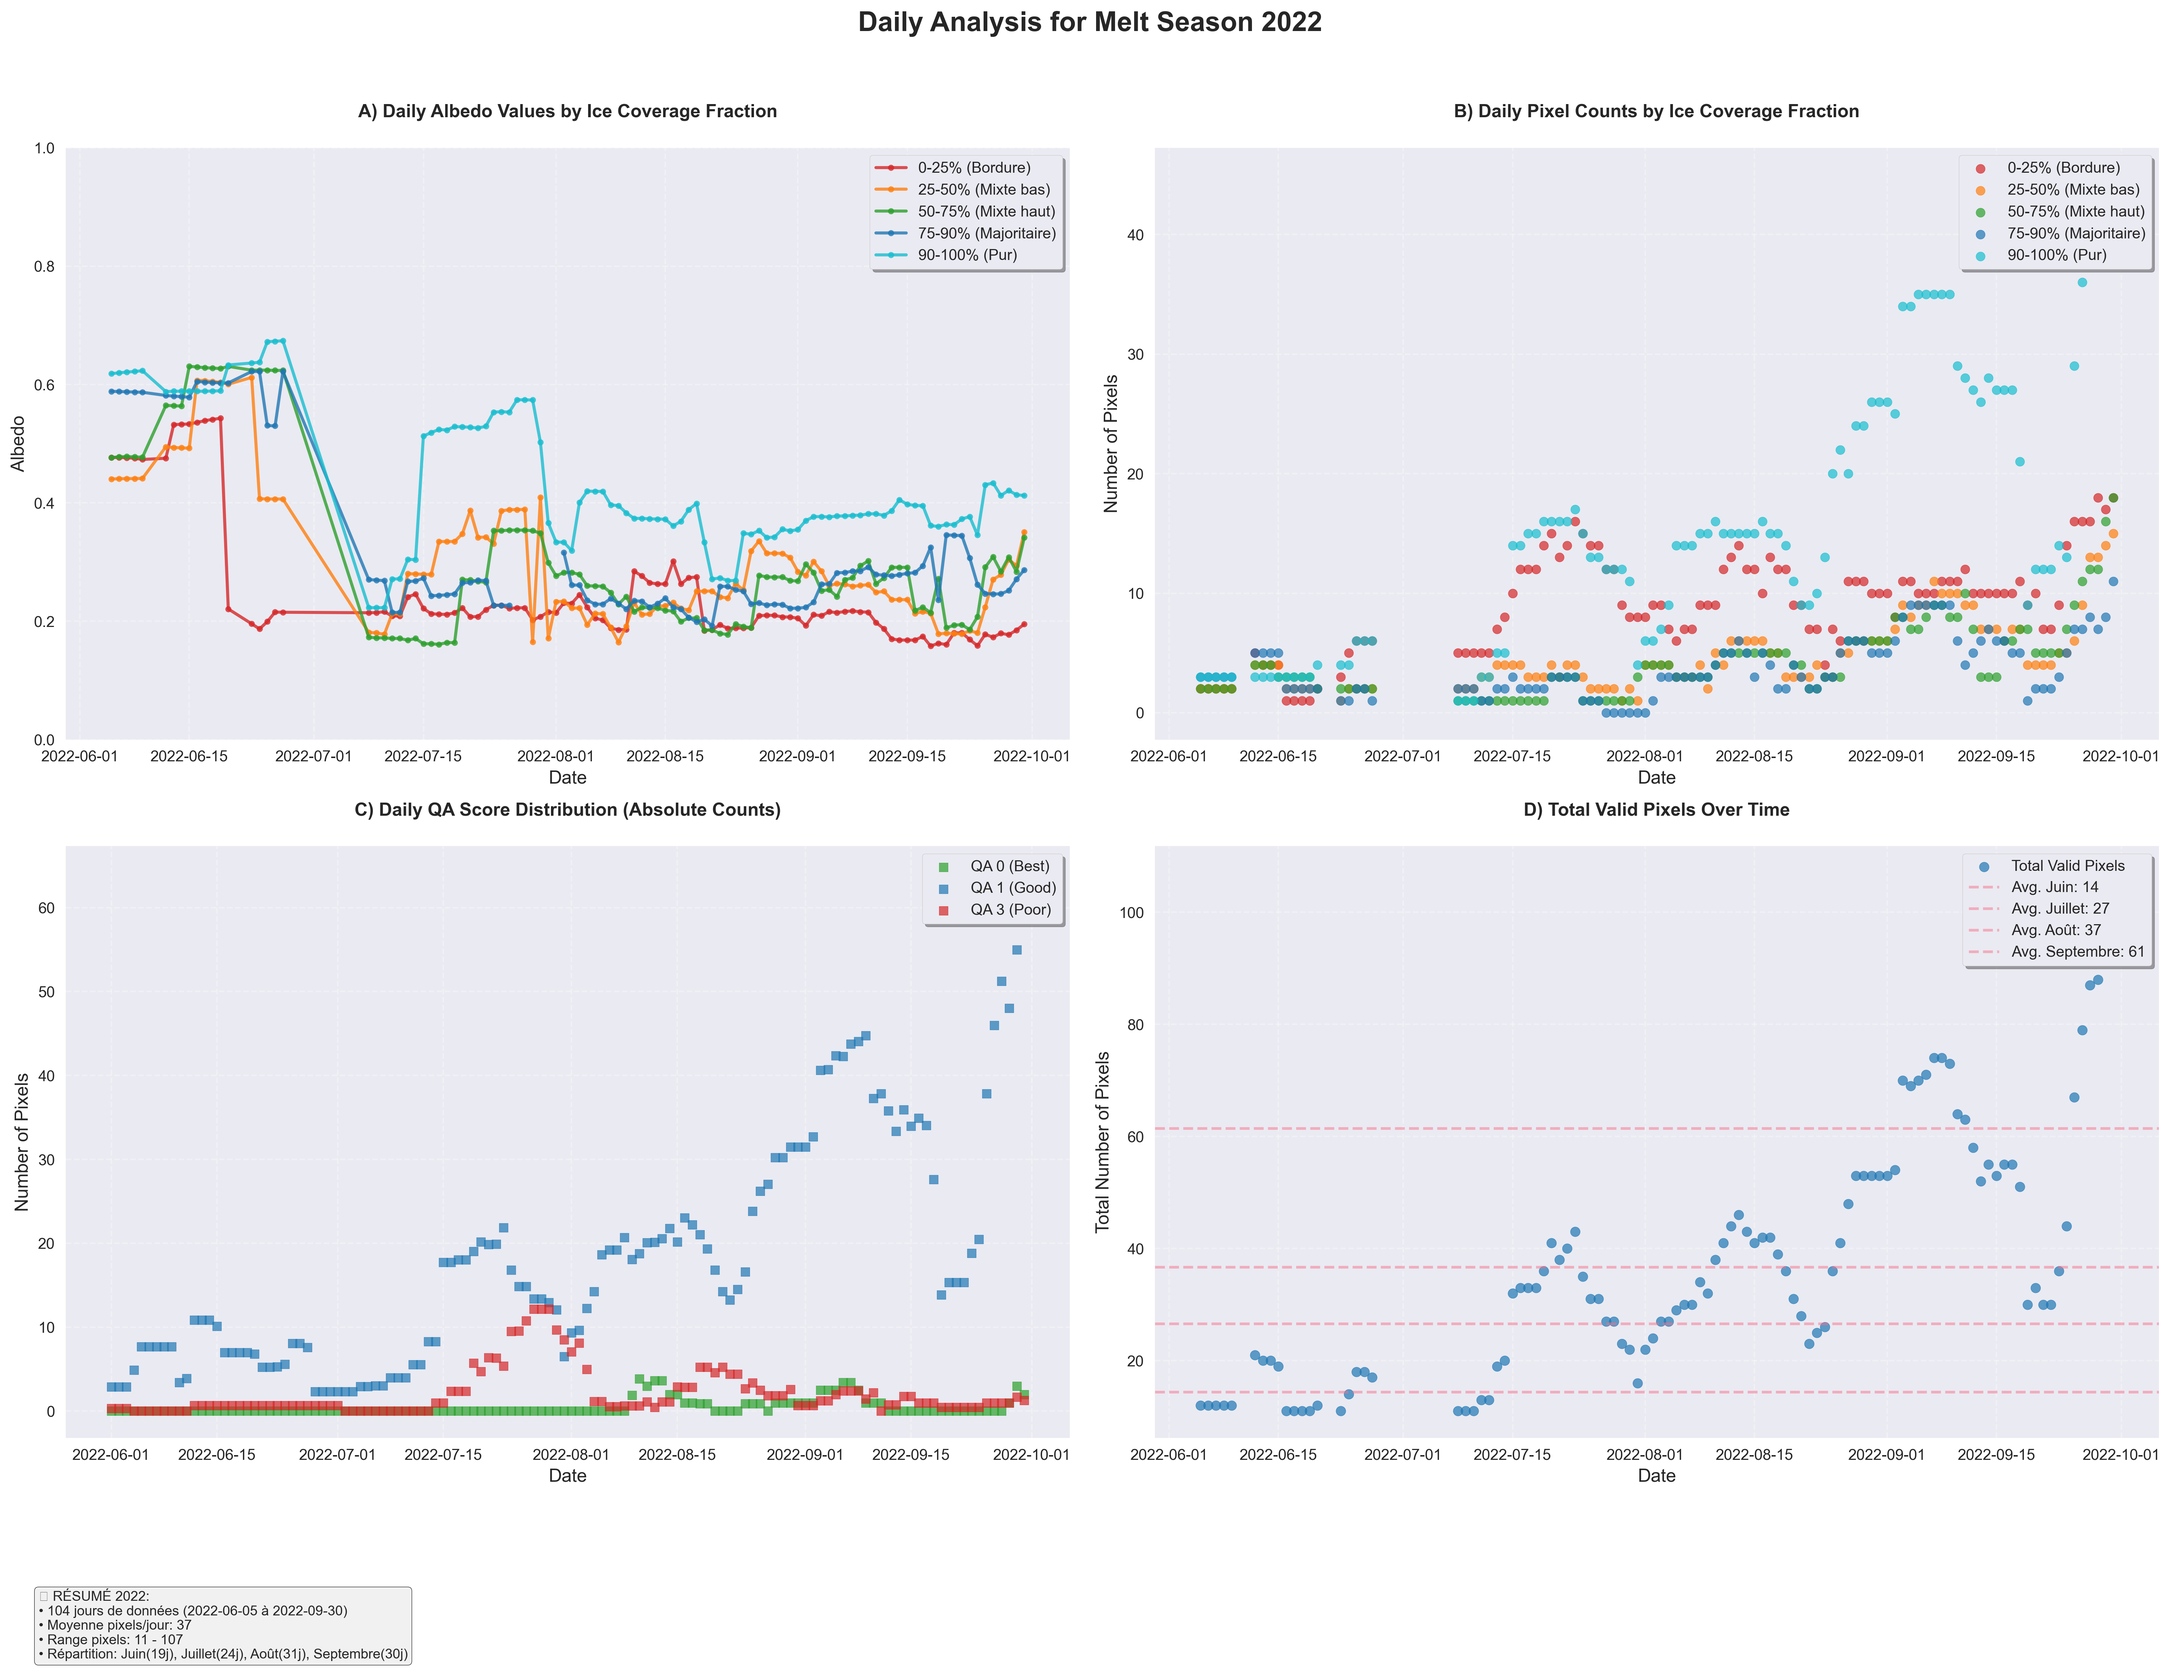
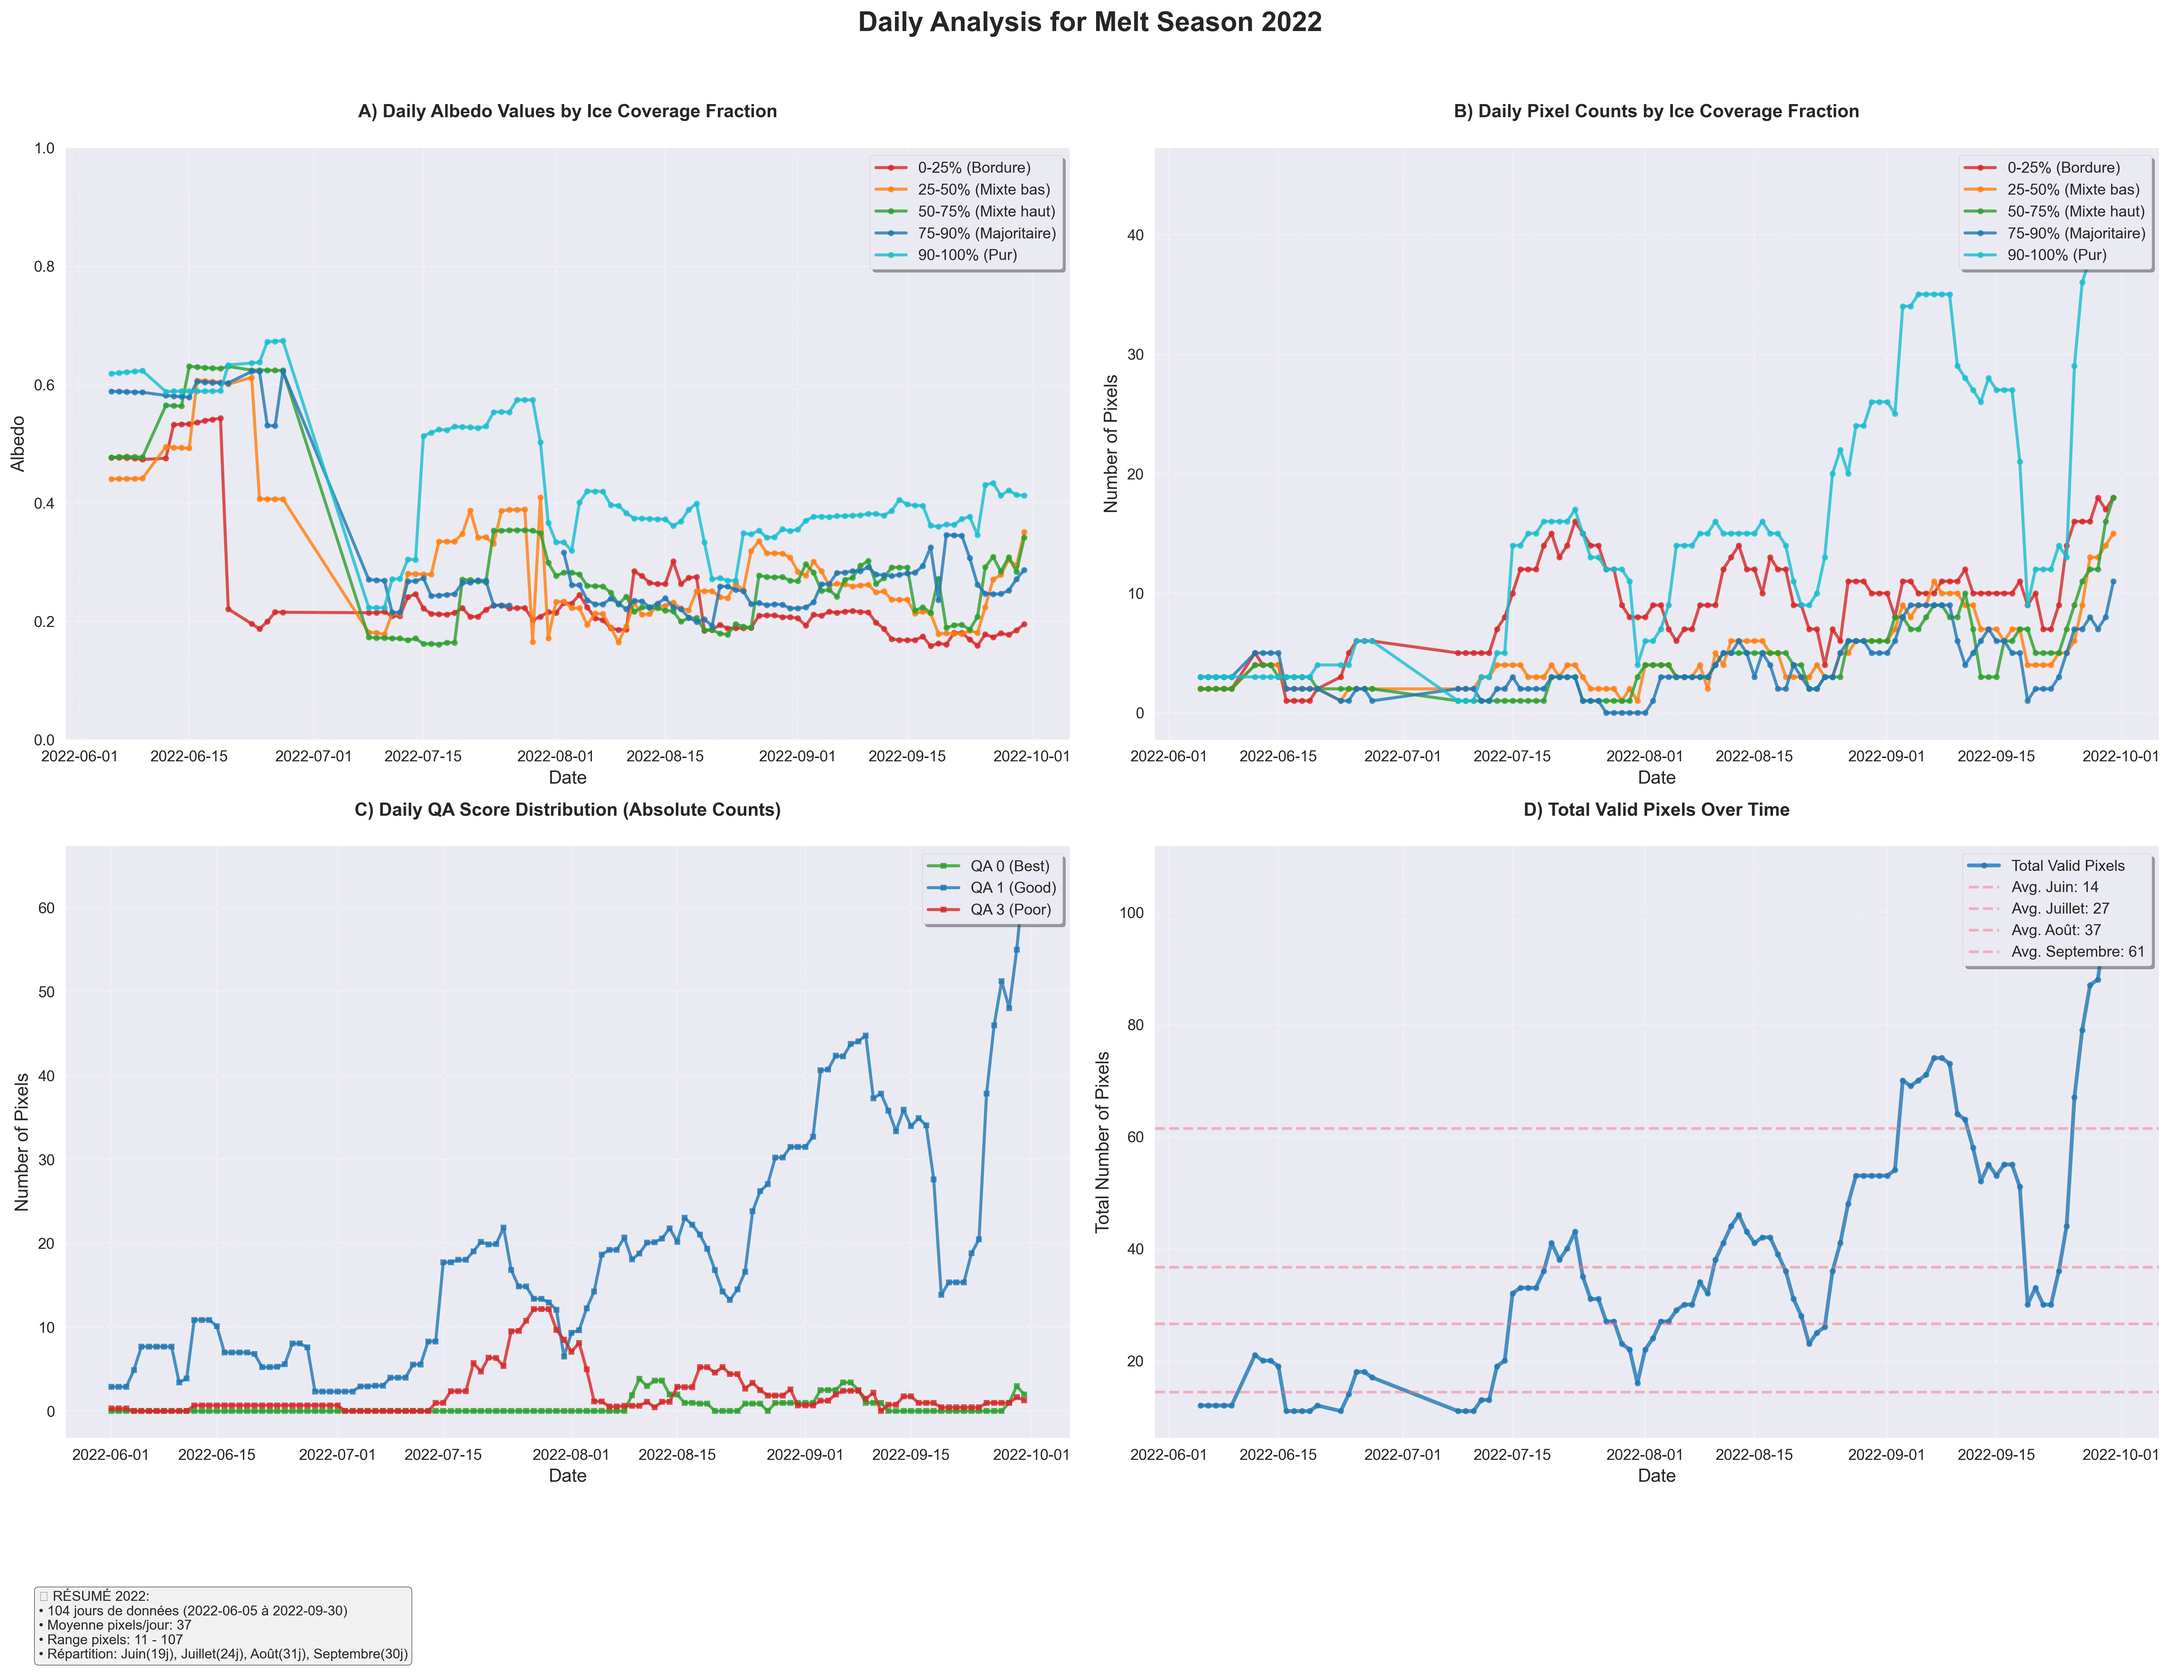
Fix monthly average lines in subplot D with distinct colors and styles
- Added different colors for each month in Total Valid Pixels subplot
- June: Orange dashed (--), July: Green dash-dot (-.), August: Red dotted (:), September: Purple solid (-)
- Increased alpha to 0.7 and linewidth to 2 for better visibility
- Now each monthly average line is easily distinguishable

🤖 Generated with [Claude Code](https://claude.ai/code)

diff --git a/src/saskatchewan_albedo/visualization/pixel_plots.py b/src/saskatchewan_albedo/visualization/pixel_plots.py
@@ -551,12 +551,18 @@ class PixelVisualizer:
                     marker='o', markersize=4, linewidth=2.5, alpha=0.8, 
                     color='#1f77b4', label='Total Valid Pixels')
             
-            # Add monthly averages
+            # Add monthly averages with different colors and styles
             monthly_avg = year_data.groupby(year_data['date'].dt.month)['total_valid_pixels'].mean()
+            month_colors = {6: '#ff7f0e', 7: '#2ca02c', 8: '#d62728', 9: '#9467bd'}
+            month_styles = {6: '--', 7: '-.', 8: ':', 9: '-'}
+            
             for month, avg_pixels in monthly_avg.items():
                 month_data = year_data[year_data['date'].dt.month == month]
                 if len(month_data) > 0:
-                    ax4.axhline(y=avg_pixels, alpha=0.5, linestyle='--', 
+                    ax4.axhline(y=avg_pixels, alpha=0.7, 
+                              linestyle=month_styles.get(month, '--'),
+                              color=month_colors.get(month, 'gray'),
+                              linewidth=2,
                               label=f'Avg. {MONTH_NAMES[month]}: {avg_pixels:.0f}')
             
             ax4.set_title('D) Total Valid Pixels Over Time', fontweight='bold', pad=20)
